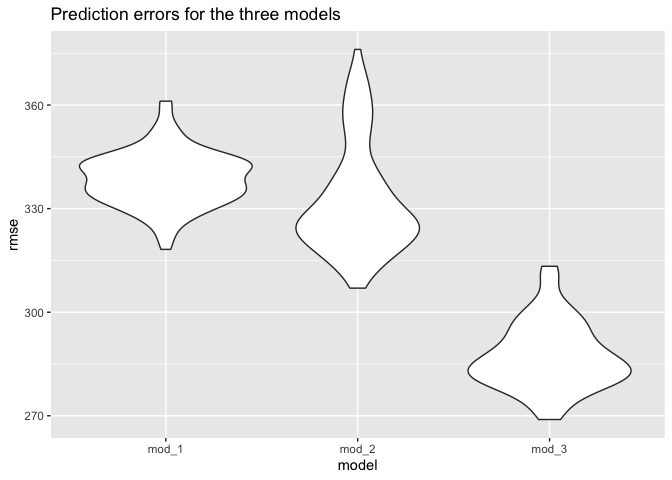
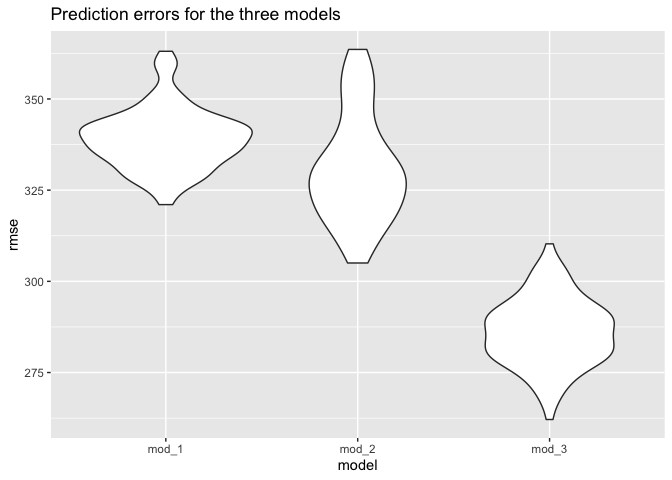
HW6 answer

diff --git a/p8105_hw6_yw3773.md b/p8105_hw6_yw3773.md
@@ -56,9 +56,9 @@ birth_df %>%
 
 ![](p8105_hw6_yw3773_files/figure-gfm/unnamed-chunk-3-2.png)<!-- -->
 
-I quite interested in how baby’s head circumference at birth and the
-birth sex are associated with their birth weight. Then I plot two graphs
-as above, from the first graph, it seems like there is a positive
+I was interested in how baby’s head circumference at birth and the birth
+sex are associated with their birth weight. Then I plot two graphs as
+above, from the first graph, it seems like there is a positive
 relationship between the head circumference and birth weight. From the
 second graph, although the two box plots are overlapped, the male’s
 median is a little bit higher than the female’s median. So I decide to
@@ -176,9 +176,9 @@ birth_df %>%
 
 | model  | avg\_rmse |
 |:-------|----------:|
-| mod\_1 |   338.753 |
-| mod\_2 |   332.426 |
-| mod\_3 |   287.264 |
+| mod\_1 |   339.095 |
+| mod\_2 |   330.731 |
+| mod\_3 |   286.114 |
 
 After fitting the second and third model and comparing them with the
 first model. From both the violin plot and the mean prediction errors,
